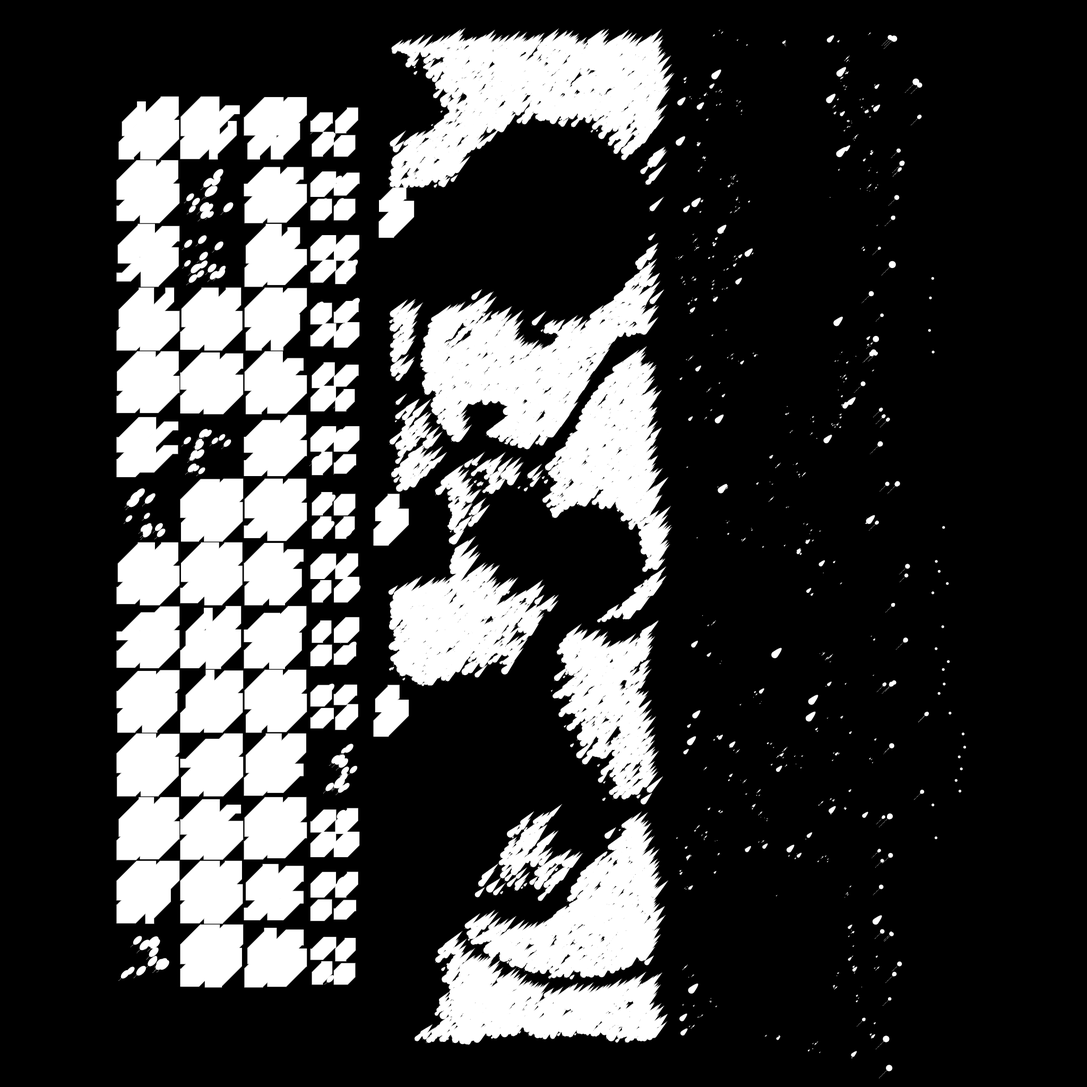
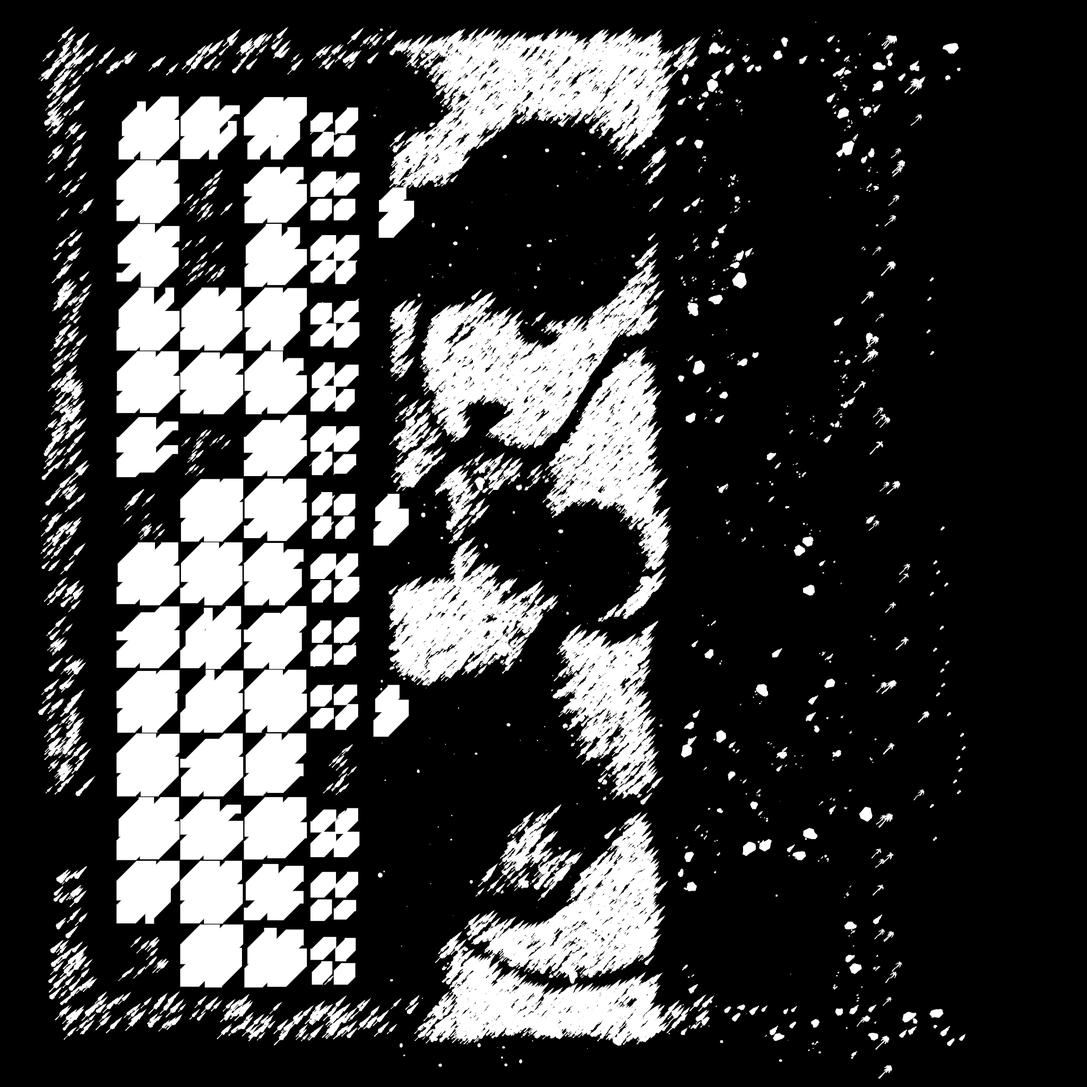
Ombres des objets à leur vraie forme, dérapage qui bascule, grillons plus doux
- Ombres précalculées : chaque objet projette la vraie silhouette de son maillage le long
  des rayons du soleil (avant : disques empilés selon la hauteur) ; arbres des contreforts
  et grands rochers enfin compris ; 4 échantillons par pixel ; contour net et lisse dans
  le shader du sol.
- Mode Drift : l'intention de déraper dure ~1 s après une glisse (les bascules ne sont
  plus freinées : sur bitume la bascule gauche-droite échouait, elle atteint 81°) ;
  l'aide à la stabilité ne s'oppose plus qu'à une rotation en trop. Petite correction :
  8° de cap sur bitume (15° avant).
- Grillons nettement moins forts. Version 0.9.2.

Claude-Session: https://claude.ai/code/session_015s7qyfAwtnnMRmjEvNWnw3

diff --git a/CLAUDE.md b/CLAUDE.md
@@ -27,7 +27,7 @@ Le prototype 2D (dépôt lulu4660/garage-spotter) sert de référence : formules
   - `world_layout.gd` : plan de la balade, une vallée ouverte sur la mer (relief, sols, adhérence) : d'ouest en est ville au pied des montagnes (`CITY_START`, dans `VALLEY_HALF`), banlieue, prairies et fermes, forêt sur les collines, garrigue, dunes, plage, mer ; montagnes qui ferment la carte à l'ouest, au nord et au sud (`mountain_factor`, `mountain_height`, raides : fin de carte) et finissent en caps dans la mer ; `far_height` les prolonge au-delà des bords ; spéciale de rallye en boucle `ROAD_POINTS`, demi-largeur `ROAD_HALF`).
   - Aucune règle d'économie ailleurs que dans ce dossier.
 - `scripts/balade/` : la balade 3D.
-  - `balade.gd` (point d'entrée, scène `scenes/balade.tscn` : décor, voiture, caméra, effets de roues, réception de saut, affichage), `world_data.gd` (monde précalculé), `terrain.gd` (16 × 16 morceaux à deux niveaux de détail (2 m et 4 m entre sommets) déformés par la carte graphique, collision HeightMapShape3D, sable qui se creuse), `world_builder.gd` (ciel HDR et soleil calé dessus, brume, post-traitement, mer, montagnes à l'horizon (un maillage à facettes, couleurs par sommet : forêt, roche, neige), limites, ville, rochers), `car.gd` (VehicleBody3D : 4x4/propulsion/traction, adhérence par sol, dérapage réglable avec contre-braquage automatique, réglée pour dériver d'après les essais de l'auteur (pneus 1,0, braquage 45°, suspensions souples, arrière qui décroche avant l'avant, garde-fou à l'angle maxi de 80°), deux modes (`settings.MODES`) : Drift (valeurs de `car.gd`, en glisse les gaz règlent l'angle : `throttle_angle`) et Grip (`settings.GRIP` : pneus qui accrochent, travers au frein à main seulement), réglages du joueur gardés par mode ; petite poussée sous les gaz sur sol mou (motricité sans toucher à la glisse) ; aide à la stabilité façon ESP (`stability` : sans intention de dérapage, la voiture ne tourne pas plus vite que ne le demandent les roues avant ; l'intention = volant tenu plus de 0,2 à 0,55 s, frein à main ou déjà en travers ; la survirage au gaz n'agit qu'avec cette intention) ; vrai roulis physique : la force des pneus au sol fait pencher le châssis sur ses suspensions (`roll_physics` = wheel_roll_influence, réduit à basse vitesse : plein effet vers 90 km/h ; centre de gravité `com_height`), amortisseurs de roulis et de tangage (`roll_damping`, `pitch_damping`) pour des bascules douces, transfert de masse avant/arrière calculé depuis la force d'accélération ou de freinage au sol sous le centre de gravité, en partie repris par les trains (`anti_pitch`), gaz et frein qui montent progressivement (`gas_rise`, `brake_rise`), anti-tonneau seulement au-delà de 14° ; en plus, caisse suspendue sous le pivot `Caisse` (visuel, léger : masse sur ressorts tendres au-dessus du châssis physique, trois ressorts amortis roulis/tangage/pompage intégrés au pas de la physique, poussés par l'inverse des accélérations linéaires et angulaires du châssis mesurées dans le monde : extérieur du virage, plongée au freinage, bosses et réceptions ; `body_roll`, `body_pitch`, `body_freq`, `body_wobble`), élan gardé en travers sous les gaz (`slide_keep`), garde-fou, flottaison (12 sondes sous la caisse : poussée d'Archimède sous la vraie surface, résistance de l'eau selon le sens et par rapport à l'eau qui bouge, prend l'eau puis coule), roues dessinées posées sur le sol ou au fond de leur ornière, résistance au roulement par sol, roues freinées par l'eau peu profonde, terre tassée sur la piste ; retour au sec ; fabrique la voiture depuis un modèle du kit ; les matériaux du pack, « sans éclairage », sont rendus éclairés), `drone_camera.gd` (Rallye par défaut : haute et plongeante, regard devant la voiture, champ réglé en largeur en portrait ; drone, poursuite, travelling, plongée), `effects.gd` (traces de gomme sur le bitume ; particules en MultiMesh animées par shader, volontairement simples : poussière en blocs low poly semi-transparents qui roulent, gonflent et s’effacent (petite à basse vitesse, ample à grande vitesse) (`shaders/chunks.gdshader`), deux nappes de gouttes à l'avant dans l'eau, anneau au sol à la réception d'un saut), `ruts.gd` (ornières : pièce de terrain (30 cm entre sommets, calée sur une grille fixe, carte de 51 m qui s'efface en fondu sur les bords) qui suit la voiture et se creuse sous les roues et sous la caisse dans le sable et la terre ; `balade._body_contact` creuse aussi la collision quand la caisse frotte longtemps), `decor.gd` (herbe low poly par cases, mouettes, campements et objets), `vegetation.gd` (Nature Kit de Kenney, CC0, `assets/props/nature/` : forêt de pins en massifs sur la terre avec couloirs et clairières pour rouler, cactus, buissons et rochers dans les dunes, palmiers en haut de plage, forêt des contreforts jusqu'à la limite des arbres (rochers côté désert, sans collision, tirage aléatoire à part) ; ligne droite de départ toujours dégagée ; chaque modèle en une surface colorée par sommet, MultiMesh par case de 96 m, collisions simples), `town.gd` (carte cohérente d'ouest en est : ville par quartiers (tours au centre, commerces, banlieue avec maisons, clôtures et jardins, parcs), fermes entre la ville et la forêt (champs, clôtures, ferme ; `FARMS`), plage aménagée (parasols, cabanes) ; MultiMesh par case de 120 m ; donne les places de stationnement, les trottoirs et les parasols à `life.gd`), `life.gd` (vie : circulation sur la piste dans les deux sens et autour des pâtés de maisons, qui freine si le joueur est devant ; voitures garées ; piétons qui marchent et s'écartent ; vacanciers assis ; barques sur la houle ; en pause loin de la voiture), `mesh_merge.gd` (fusion d'un modèle en une surface par matériau, rendu mat), `lighting.gd` (lumière et post-traitement, jour et nuit : soleil doré ou lune, ambiance, ciel, brume, halo (glow), étalonnage, vignettage ; bascule douce `set_night` (bouton NUIT/JOUR, touche N) ; paramètre global de shader `night` (project.godot, [shader_globals]) ; iPhone/web : pas de halo plein écran, les lumières ont leurs propres halos (`shaders/halo.gdshader`)), `lamps.gd` (éclairage public avec un modèle par lieu : grands réverbères à bras en centre-ville, lanternes en banlieue, poteaux en bois autour des cours de ferme, bornes basses sur la promenade de plage ; rien le long de la piste de terre ; hauteur, halo et portée au sol par modèle ; lumière au sol précalculée dans `assets/balade/lights.png`), `prop_body.gd` (objets destructibles : figés, réveillés par la voiture, projetés ou brisés en morceaux), `waves.gd` (houle commune à l'image et à la flottaison, vitesse de l'eau), `water_sim.gd` (vraies vagues autour de la voiture : équation des ondes en eau peu profonde sur 64 m (cases de 50 cm), calculée par la carte graphique dans deux SubViewports qui se passent le relais, compatible WebGL 2 ; la caisse et les roues poussent l'eau), `settings.gd` (réglages enregistrés dans `user://settings.cfg` : graphismes en préréglages Très bas → Ultra (résolution 3D, résolution dynamique (`balade._dynamic_resolution` : baisse jusqu'à 60 % du réglage quand l'image dépasse 18 ms, remonte quand c'est fluide ; coupée quand la qualité est forcée, pour les outils de mesure), MSAA, distances d'affichage, relief détaillé, herbe, vie, ombres temps réel (Ultra seulement), vagues simulées, halos, bloom, SSAO) appliqués en direct, vernis brillant de carrosserie (pas de post-traitement par rectangle collé à la caméra : il recopie l'image avant les objets transparents et efface fumée et halos), rendu avancé PC (SSR, SSIL, brume volumétrique, Forward+ seulement), brouillard réglable hors préréglages (`lighting.fog_amount`), et conduite : paramètres de `car.gd` modifiables en roulant, texte à copier), `settings_menu.gd` (écran RÉGLAGES / Échap, onglets Graphismes et Conduite ; le projet lit les doigts sans souris émulée (`emulate_mouse_from_touch=false`) : le menu la réactive tant qu’il est ouvert), `audio.gd` (sons, tous synthétisés par `tools/make_audio.py` dans `assets/audio/` (aucune licence) : moteur modélisé (explosions cylindre par cylindre, irrégularités de combustion, résonances d'échappement) à 5 régimes, en charge et au lever de pied, fondus selon le régime de la boîte simulée de `car.gd` (`rpm`, `gear`, `engine_load`, `shifted` ; son et affichage seulement, la poussée reste continue), crissement sur bitume, roulage sur terre et sable, vent, remous et gerbe dans l'eau, chocs, réceptions, ressac près de la mer, grillons la nuit (chœur de grillons des champs : chirps de 3 ou 4 pulsations vers 4,5 kHz, surtout hors de la ville) ; lecteurs non spatialisés qui tournent en continu (la pause coupait le moteur sur le web) ; volume et hauteur modifiés seulement quand ils changent ; volume dans les réglages ; boucles : `edit/loop_mode=2` dans les `.wav.import`), `hud.gd` (affichage compact dessiné en code et animé : compteur en blocs facettés de l'or au rouge (traînée lumineuse, bloc de tête qui brille, pulsation près de la vitesse max, balayage à l'apparition) avec vitesse et pastille du mode, ligne d'infos discrète, panneau de dérapage qui surgit avec rebond (reflet qui balaie, multiplicateur qui saute, points qui s'envolent avec des éclats facettés, tremblement rouge au choc) : angle, points selon angle × vitesse, multiplicateur ×1 à ×5 si la glisse dure, gagnés à la fin, perdus au choc, record de la session ; polices Russo One et Rajdhani, SIL OFL, `assets/fonts/`), `controls.gd` (quatre directions au choix dans RÉGLAGES > Commandes : flèches, volant à l'écran, glisser, inclinaison du téléphone (devicemotion via JavaScriptBridge sur le web, autorisation iPhone au premier toucher) ; sensibilité, taille des boutons ; boutons compacts à coins coupés, charbon translucide, trait orange, orange plein à l'appui et enfoncement sur ressort ; clavier + boutons tactiles multi-doigts, placés en fraction du petit côté de l'écran : tiennent en portrait comme en paysage ; flèches dessinées, la police web n'a pas ◀ ▶).
+  - `balade.gd` (point d'entrée, scène `scenes/balade.tscn` : décor, voiture, caméra, effets de roues, réception de saut, affichage), `world_data.gd` (monde précalculé), `terrain.gd` (16 × 16 morceaux à deux niveaux de détail (2 m et 4 m entre sommets) déformés par la carte graphique, collision HeightMapShape3D, sable qui se creuse), `world_builder.gd` (ciel HDR et soleil calé dessus, brume, post-traitement, mer, montagnes à l'horizon (un maillage à facettes, couleurs par sommet : forêt, roche, neige), limites, ville, rochers), `car.gd` (VehicleBody3D : 4x4/propulsion/traction, adhérence par sol, dérapage réglable avec contre-braquage automatique, réglée pour dériver d'après les essais de l'auteur (pneus 1,0, braquage 45°, suspensions souples, arrière qui décroche avant l'avant, garde-fou à l'angle maxi de 80°), deux modes (`settings.MODES`) : Drift (valeurs de `car.gd`, en glisse les gaz règlent l'angle : `throttle_angle`) et Grip (`settings.GRIP` : pneus qui accrochent, travers au frein à main seulement), réglages du joueur gardés par mode ; petite poussée sous les gaz sur sol mou (motricité sans toucher à la glisse) ; aide à la stabilité façon ESP (`stability` : sans intention de dérapage, la voiture ne tourne pas plus vite que ne le demandent les roues avant ; l'intention = volant tenu plus de 0,12 à 0,35 s, frein à main ou déjà en travers, gardée environ 1 s après (les bascules d'un côté à l'autre restent libres) ; l'aide ne s'oppose qu'à une rotation en trop, jamais à un virage voulu ; le survirage au gaz n'agit qu'avec cette intention) ; vrai roulis physique : la force des pneus au sol fait pencher le châssis sur ses suspensions (`roll_physics` = wheel_roll_influence, réduit à basse vitesse : plein effet vers 90 km/h ; centre de gravité `com_height`), amortisseurs de roulis et de tangage (`roll_damping`, `pitch_damping`) pour des bascules douces, transfert de masse avant/arrière calculé depuis la force d'accélération ou de freinage au sol sous le centre de gravité, en partie repris par les trains (`anti_pitch`), gaz et frein qui montent progressivement (`gas_rise`, `brake_rise`), anti-tonneau seulement au-delà de 14° ; en plus, caisse suspendue sous le pivot `Caisse` (visuel, léger : masse sur ressorts tendres au-dessus du châssis physique, trois ressorts amortis roulis/tangage/pompage intégrés au pas de la physique, poussés par l'inverse des accélérations linéaires et angulaires du châssis mesurées dans le monde : extérieur du virage, plongée au freinage, bosses et réceptions ; `body_roll`, `body_pitch`, `body_freq`, `body_wobble`), élan gardé en travers sous les gaz (`slide_keep`), garde-fou, flottaison (12 sondes sous la caisse : poussée d'Archimède sous la vraie surface, résistance de l'eau selon le sens et par rapport à l'eau qui bouge, prend l'eau puis coule), roues dessinées posées sur le sol ou au fond de leur ornière, résistance au roulement par sol, roues freinées par l'eau peu profonde, terre tassée sur la piste ; retour au sec ; fabrique la voiture depuis un modèle du kit ; les matériaux du pack, « sans éclairage », sont rendus éclairés), `drone_camera.gd` (Rallye par défaut : haute et plongeante, regard devant la voiture, champ réglé en largeur en portrait ; drone, poursuite, travelling, plongée), `effects.gd` (traces de gomme sur le bitume ; particules en MultiMesh animées par shader, volontairement simples : poussière en blocs low poly semi-transparents qui roulent, gonflent et s’effacent (petite à basse vitesse, ample à grande vitesse) (`shaders/chunks.gdshader`), deux nappes de gouttes à l'avant dans l'eau, anneau au sol à la réception d'un saut), `ruts.gd` (ornières : pièce de terrain (30 cm entre sommets, calée sur une grille fixe, carte de 51 m qui s'efface en fondu sur les bords) qui suit la voiture et se creuse sous les roues et sous la caisse dans le sable et la terre ; `balade._body_contact` creuse aussi la collision quand la caisse frotte longtemps), `decor.gd` (herbe low poly par cases, mouettes, campements et objets), `vegetation.gd` (Nature Kit de Kenney, CC0, `assets/props/nature/` : forêt de pins en massifs sur la terre avec couloirs et clairières pour rouler, cactus, buissons et rochers dans les dunes, palmiers en haut de plage, forêt des contreforts jusqu'à la limite des arbres (rochers côté désert, sans collision, tirage aléatoire à part) ; ligne droite de départ toujours dégagée ; chaque modèle en une surface colorée par sommet, MultiMesh par case de 96 m, collisions simples), `town.gd` (carte cohérente d'ouest en est : ville par quartiers (tours au centre, commerces, banlieue avec maisons, clôtures et jardins, parcs), fermes entre la ville et la forêt (champs, clôtures, ferme ; `FARMS`), plage aménagée (parasols, cabanes) ; MultiMesh par case de 120 m ; donne les places de stationnement, les trottoirs et les parasols à `life.gd`), `life.gd` (vie : circulation sur la piste dans les deux sens et autour des pâtés de maisons, qui freine si le joueur est devant ; voitures garées ; piétons qui marchent et s'écartent ; vacanciers assis ; barques sur la houle ; en pause loin de la voiture), `mesh_merge.gd` (fusion d'un modèle en une surface par matériau, rendu mat), `lighting.gd` (lumière et post-traitement, jour et nuit : soleil doré ou lune, ambiance, ciel, brume, halo (glow), étalonnage, vignettage ; bascule douce `set_night` (bouton NUIT/JOUR, touche N) ; paramètre global de shader `night` (project.godot, [shader_globals]) ; iPhone/web : pas de halo plein écran, les lumières ont leurs propres halos (`shaders/halo.gdshader`)), `lamps.gd` (éclairage public avec un modèle par lieu : grands réverbères à bras en centre-ville, lanternes en banlieue, poteaux en bois autour des cours de ferme, bornes basses sur la promenade de plage ; rien le long de la piste de terre ; hauteur, halo et portée au sol par modèle ; lumière au sol précalculée dans `assets/balade/lights.png`), `prop_body.gd` (objets destructibles : figés, réveillés par la voiture, projetés ou brisés en morceaux), `waves.gd` (houle commune à l'image et à la flottaison, vitesse de l'eau), `water_sim.gd` (vraies vagues autour de la voiture : équation des ondes en eau peu profonde sur 64 m (cases de 50 cm), calculée par la carte graphique dans deux SubViewports qui se passent le relais, compatible WebGL 2 ; la caisse et les roues poussent l'eau), `settings.gd` (réglages enregistrés dans `user://settings.cfg` : graphismes en préréglages Très bas → Ultra (résolution 3D, résolution dynamique (`balade._dynamic_resolution` : baisse jusqu'à 60 % du réglage quand l'image dépasse 18 ms, remonte quand c'est fluide ; coupée quand la qualité est forcée, pour les outils de mesure), MSAA, distances d'affichage, relief détaillé, herbe, vie, ombres temps réel (Ultra seulement), vagues simulées, halos, bloom, SSAO) appliqués en direct, vernis brillant de carrosserie (pas de post-traitement par rectangle collé à la caméra : il recopie l'image avant les objets transparents et efface fumée et halos), rendu avancé PC (SSR, SSIL, brume volumétrique, Forward+ seulement), brouillard réglable hors préréglages (`lighting.fog_amount`), et conduite : paramètres de `car.gd` modifiables en roulant, texte à copier), `settings_menu.gd` (écran RÉGLAGES / Échap, onglets Graphismes et Conduite ; le projet lit les doigts sans souris émulée (`emulate_mouse_from_touch=false`) : le menu la réactive tant qu’il est ouvert), `audio.gd` (sons, tous synthétisés par `tools/make_audio.py` dans `assets/audio/` (aucune licence) : moteur modélisé (explosions cylindre par cylindre, irrégularités de combustion, résonances d'échappement) à 5 régimes, en charge et au lever de pied, fondus selon le régime de la boîte simulée de `car.gd` (`rpm`, `gear`, `engine_load`, `shifted` ; son et affichage seulement, la poussée reste continue), crissement sur bitume, roulage sur terre et sable, vent, remous et gerbe dans l'eau, chocs, réceptions, ressac près de la mer, grillons la nuit (chœur de grillons des champs : chirps de 3 ou 4 pulsations vers 4,5 kHz, surtout hors de la ville) ; lecteurs non spatialisés qui tournent en continu (la pause coupait le moteur sur le web) ; volume et hauteur modifiés seulement quand ils changent ; volume dans les réglages ; boucles : `edit/loop_mode=2` dans les `.wav.import`), `hud.gd` (affichage compact dessiné en code et animé : compteur en blocs facettés de l'or au rouge (traînée lumineuse, bloc de tête qui brille, pulsation près de la vitesse max, balayage à l'apparition) avec vitesse et pastille du mode, ligne d'infos discrète, panneau de dérapage qui surgit avec rebond (reflet qui balaie, multiplicateur qui saute, points qui s'envolent avec des éclats facettés, tremblement rouge au choc) : angle, points selon angle × vitesse, multiplicateur ×1 à ×5 si la glisse dure, gagnés à la fin, perdus au choc, record de la session ; polices Russo One et Rajdhani, SIL OFL, `assets/fonts/`), `controls.gd` (quatre directions au choix dans RÉGLAGES > Commandes : flèches, volant à l'écran, glisser, inclinaison du téléphone (devicemotion via JavaScriptBridge sur le web, autorisation iPhone au premier toucher) ; sensibilité, taille des boutons ; boutons compacts à coins coupés, charbon translucide, trait orange, orange plein à l'appui et enfoncement sur ressort ; clavier + boutons tactiles multi-doigts, placés en fraction du petit côté de l'écran : tiennent en portrait comme en paysage ; flèches dessinées, la police web n'a pas ◀ ▶).
 - `shaders/` : `terrain` (hauteurs lues en texelFetch, couleurs unies par sol, facettes, biomes : prairie verte vers les fermes, roche selon l'altitude et la pente, neige au sommet, ville : rues avec tirets, trottoirs, pelouses en banlieue, piste de terre tassée avec deux ornières, ornières creusées en mode « pièce fine »), `sea` (mer réaliste mais légère, opaque : le fond de sable vu à travers l'eau avec absorption selon la profondeur et caustiques, rides en carte de normales `assets/water/ripples.png` (`tools/make_water_normal.gd`), reflets et éclat du soleil par le moteur, écume déchirée ; grille fine de 128 m qui suit la voiture avec la houle (les 4 vagues de `waves.gd`, mêmes que la flottaison) et les vagues simulées, mer plate et grossière au-delà), `water_sim` (simulation des vagues), `stamps` (traces), `dust` (poussière à contre-jour).
 - `assets/balade/world.bin` : monde précalculé par `tools/bake_world.gd` (relief 1025² en facettes de 2 m : image, collision et physique voient les mêmes triangles ; sols 512², profondeur de la mer ; distance à la piste 1025², relief aplani le long de la piste ; format CIW2). À relancer après tout changement de `world_layout.gd`.
 - `assets/ground/` : textures de sol et ciel HDR (Poly Haven, CC0 ; brillance rangée dans l'alpha des couleurs). Le soleil suit la position du soleil dans la photo (`world_builder.SKY_SUN_U`).
@@ -39,7 +39,7 @@ Le prototype 2D (dépôt lulu4660/garage-spotter) sert de référence : formules
 ## Vérifier un changement
 - `godot --headless --path . -s tests/run_tests.gd` doit passer (aussi lancé par GitHub Actions à chaque envoi).
 - Conduite : `godot --headless --path . -s tests/test_drive.gd -- modèle drift|grip` (tonneaux, tête-à-queue en Grip, sable). Augmenter `balade.VERSION` à chaque mise en ligne (affichée en jeu).
-- Performance : `tools/bench.gd` (coût d'une image, appels de dessin, triangles ; `-- low` = réglages iPhone, `night` = mode nuit, `city` = en ville, `nospot`/`noglow` pour isoler un coût) ; à comparer entre versions (rendu logiciel ici). Réglages iPhone/web dans `balade._apply_quality` (pleine résolution, pas d'anticrénelage sur le web (le rendu Compatibility n'a pas de FXAA ; MSAA à mesurer sur iPhone), pas de halo, terrain fin sur 100 m ; eau opaque, pas de transparence en grand). Aucune ombre en temps réel : ombres du décor fixe précalculées (`tools/bake_shadows.gd` → `assets/balade/shadows.png` : végétation, bâtiments (ombre plafonnée à 18 m de haut), arbres des jardins, parasols ; à relancer après tout changement de `vegetation.gd`, `town.gd` ou du soleil), lumière des réverbères au sol précalculée de même (`lights.png`) ; fenêtres des bâtiments allumées la nuit (`shaders/building.gdshader`), faisceau des phares calculé par le terrain, l'herbe, la végétation (`shaders/vegetation.gdshader`) et les bâtiments (`headlight` dans `shaders/night_light.gdshaderinc`, paramètres globaux `head_pos`/`head_dir`/`head_side`/`head_power` (puissance réglable), deux cônes portant à 70 m, aucune vraie lumière : chacune redessine les objets qu'elle touche), feux des voitures (`shaders/car_light.gdshader`, un maillage par voiture) et halos des ampoules, fenêtres et feux (`shaders/halo.gdshader`, petits disques additifs) ; ombre de la voiture calculée par le terrain et l'herbe (`shaders/car_shadow.gdshaderinc` : rayon vers le soleil à travers deux boîtes) ; le compteur d'images/s est affiché en haut de l'écran.
+- Performance : `tools/bench.gd` (coût d'une image, appels de dessin, triangles ; `-- low` = réglages iPhone, `night` = mode nuit, `city` = en ville, `nospot`/`noglow` pour isoler un coût) ; à comparer entre versions (rendu logiciel ici). Réglages iPhone/web dans `balade._apply_quality` (pleine résolution, pas d'anticrénelage sur le web (le rendu Compatibility n'a pas de FXAA ; MSAA à mesurer sur iPhone), pas de halo, terrain fin sur 100 m ; eau opaque, pas de transparence en grand). Aucune ombre en temps réel : ombres du décor fixe précalculées (`tools/bake_shadows.gd` → `assets/balade/shadows.png` : vraie silhouette de chaque objet (triangles de son maillage projetés au sol le long des rayons du soleil, 4 échantillons par pixel, triangles légèrement élargis pour les tiges fines) : végétation (contreforts compris), grands rochers (`world_builder.rock_placements`), arbres des jardins, parasols ; bâtiments en boîtes (ombre plafonnée à 18 m de haut) ; le terrain resserre la valeur en un contour net et lisse ; à relancer après tout changement de `vegetation.gd`, `town.gd` ou du soleil), lumière des réverbères au sol précalculée de même (`lights.png`) ; fenêtres des bâtiments allumées la nuit (`shaders/building.gdshader`), faisceau des phares calculé par le terrain, l'herbe, la végétation (`shaders/vegetation.gdshader`) et les bâtiments (`headlight` dans `shaders/night_light.gdshaderinc`, paramètres globaux `head_pos`/`head_dir`/`head_side`/`head_power` (puissance réglable), deux cônes portant à 70 m, aucune vraie lumière : chacune redessine les objets qu'elle touche), feux des voitures (`shaders/car_light.gdshader`, un maillage par voiture) et halos des ampoules, fenêtres et feux (`shaders/halo.gdshader`, petits disques additifs) ; ombre de la voiture calculée par le terrain et l'herbe (`shaders/car_shadow.gdshaderinc` : rayon vers le soleil à travers deux boîtes) ; le compteur d'images/s est affiché en haut de l'écran.
 - Capture rapide d'un plan : `tools/pose.gd -- sortie.png [plan] [x z cap°] [low]`.
 - Changement visible : `xvfb-run -a -s "-screen 0 1280x720x24" godot --path . --rendering-method gl_compatibility --resolution 1280x720 -s tools/shot.gd -- dossier [secondes_de_gaz] [plan_caméra]`, puis relire les captures (rendu logiciel : lent, compter quelques minutes).
 - Vérifier la version en ligne : `node tools/web_check.js [url] [capture.png] [secondes]` (Chromium au format iPhone : capture + erreurs de la console).
